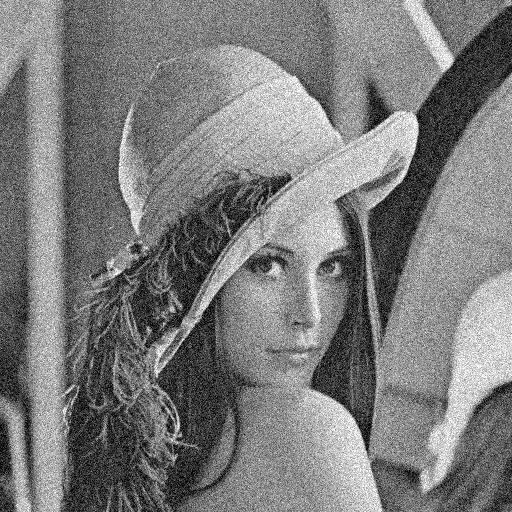
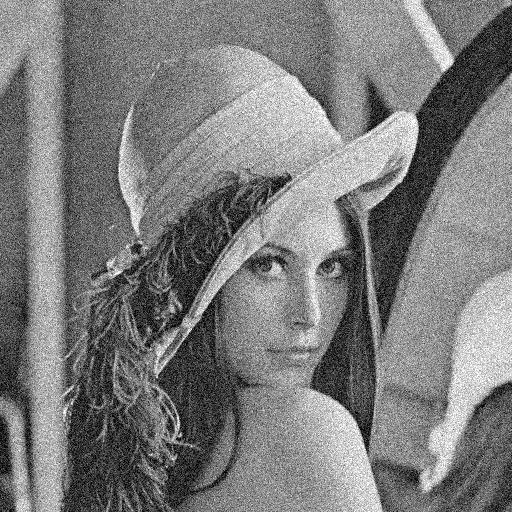
version quasi finale rendu2

diff --git a/ImageDenoiser/src/denoiser/Main.java b/ImageDenoiser/src/denoiser/Main.java
@@ -16,7 +16,7 @@ public class Main {
             BufferedImage original = loadImage("ImageDenoiser/images_sources/lena.jpeg");
 
             // 2. Ajout de bruit
-            double sigma = 35.0;
+            double sigma = 25.0;
             BufferedImage noisy = ImageUtils.noising(original, sigma);
             saveImage(noisy, "ImageDenoiser/images_bruitees/lena_noisy_sigma" + (int) sigma + ".jpeg");
 
@@ -53,7 +53,7 @@ public class Main {
         if (!dir.exists()) dir.mkdirs();
 
         // 8. Écriture du fichier résultats
-        FileWriter fw = new FileWriter(sigmaDir + "resultats.txt");
+        FileWriter fw = new FileWriter(sigmaDir + "resultats_global.txt");
         PrintWriter pw = new PrintWriter(fw);
 
         String[] noms = { "DouxBayes", "DurBayes", "DouxVisu", "DurVisu" };
@@ -105,111 +105,79 @@ public class Main {
     }
     
     public static void localDenoising(int s, double sigma, BufferedImage noisy, BufferedImage original) throws IOException {
-        int W = 64; // Taille des zones locales
-        int pas = 64; // Pas de déplacement : non chevauchantes
+        int W = 64;
+        int pas = 64;
+
         List<ImageZone> zones = ImageUtils.decoupeImage(noisy, W, pas);
-        List<ImageZone> denoisedZonesBayesSoft = new ArrayList<>();
-        List<ImageZone> denoisedZonesVisuSoft = new ArrayList<>();
-        List<ImageZone> denoisedZonesBayesHard = new ArrayList<>();
-        List<ImageZone> denoisedZonesVisuHard = new ArrayList<>();
+
+        // Préparation des listes pour les 4 méthodes
+        List<List<ImageZone>> zonesParMethode = new ArrayList<>();
+        for (int i = 0; i < 4; i++) zonesParMethode.add(new ArrayList<>());
+
+        String[] noms = { "BayesSoft", "BayesHard", "VisuSoft", "VisuHard" };
+        boolean[] softFlags = { true, false, true, false };
+        boolean[] bayesFlags = { true, true, false, false };
 
         for (ImageZone zone : zones) {
             BufferedImage subImage = zone.getImage();
             int offsetX = zone.getPosition()[0];
             int offsetY = zone.getPosition()[1];
 
-         // 3. Extraction des patchs
-            List<Patch> patches = ImageUtils.extractPatches(noisy, s);
-
-            // 4. Conversion en vecteurs
-            List<double[]> vectors = patches.stream()
-                                            .map(Patch::toVector)
-                                            .toList();
-
-            // 5. ACP
+            // Pipeline
+            List<Patch> patches = ImageUtils.extractPatches(subImage, s);
+            List<double[]> vectors = patches.stream().map(Patch::toVector).toList();
             ACPResult acpResult = ACP.computeACP(vectors);
-
-            // 6. Projection
             List<double[]> Vc = ACP.MoyCov(vectors).Vc;
             double[][] contributions = ACP.project(acpResult.base, Vc);
 
-            // 7. Dossier de sortie pour sigma
-            String sigmaDir = "ImageDenoiser/images_reconstruites/sigma" + (int) sigma + "/";
-            File dir = new File(sigmaDir);
-            if (!dir.exists()) dir.mkdirs();
-
-            // 8. Écriture du fichier résultats
-            FileWriter fw = new FileWriter(sigmaDir + "resultats.txt");
-            PrintWriter pw = new PrintWriter(fw);
-
-            String[] noms = { "DouxBayes", "DurBayes", "DouxVisu", "DurVisu" };
-            boolean[] softFlags = { true, false, true, false };
-            boolean[] bayesFlags = { true, true, false, false };
-
             for (int i = 0; i < 4; i++) {
-                String nom = noms[i];
                 boolean isSoft = softFlags[i];
                 boolean isBayes = bayesFlags[i];
 
-                // Calcul lambda
-                double lambda;
-                if (isBayes) {
-                    double sigmaSignal = Thresholding.estimateGlobalSigmaSignal(contributions, sigma);
-                    lambda = Thresholding.seuilBayes(sigma, sigmaSignal);
-                } else {
-                    lambda = Thresholding.seuilVisu(sigma, s * s);
-                }
+                double lambda = isBayes
+                    ? Thresholding.seuilBayes(sigma, Thresholding.estimateGlobalSigmaSignal(contributions, sigma))
+                    : Thresholding.seuilVisu(sigma, s * s);
 
-                // Seuillage
                 double[][] contributionsSeuillees = Thresholding.appliquerSeuillage(contributions, lambda, isSoft);
 
-                // Reconstruction
                 List<double[]> reconstructions = Thresholding.reconstructionsDepuisContributions(
                     contributionsSeuillees, acpResult.base, acpResult.moyenne);
 
-                List<Patch> reconstructedPatches = new java.util.ArrayList<>();
+                List<Patch> reconstructedPatches = new ArrayList<>();
                 for (int j = 0; j < reconstructions.size(); j++) {
                     Patch originalPatch = patches.get(j);
-                    double[] data = reconstructions.get(j);
-                    reconstructedPatches.add(new Patch(data, originalPatch.positionX, originalPatch.positionY));
+                    reconstructedPatches.add(new Patch(reconstructions.get(j), originalPatch.positionX, originalPatch.positionY));
                 }
+
                 BufferedImage zoneDenoised = ImageUtils.reconstructPatches(reconstructedPatches, subImage.getHeight(), subImage.getWidth());
-                // Ajout de la zone débruitée dans la liste
-                switch(i) {
-                case 0:
-                	denoisedZonesBayesSoft.add(new ImageZone(zoneDenoised, offsetX, offsetY));
-                }
-	            case 1:
-	            	denoisedZonesBayesHard.add(new ImageZone(zoneDenoised, offsetX, offsetY));
-	            }
-		        case 2:
-		        	denoisedZonesVisuSoft.add(new ImageZone(zoneDenoised, offsetX, offsetY));
-		        }
-			    case 3:
-			    	denoisedZonesVisuHard.add(new ImageZone(zoneDenoised, offsetX, offsetY));
-			    }
-                }
-                
+
+                zonesParMethode.get(i).add(new ImageZone(zoneDenoised, offsetX, offsetY));
             }
-
-        // Recomposition finale
-        BufferedImage result = ImageUtils.recomposeFromZones(denoisedZones, noisy.getWidth(), noisy.getHeight());
-
-        // Sauvegarde de l'image débruitée finale
-        String outputPath = "ImageDenoiser/images_reconstruites/sigma" + (int) sigma + "/Local" + + ".jpeg";
-        saveImage(result, outputPath);
-
-        // Évaluation
-        double mse = Evaluation.mse(original, result);
-        double psnr = Evaluation.psnr(mse);
-
-        // Enregistrement des résultats
-        try (PrintWriter pw = new PrintWriter(new FileWriter("ImageDenoiser/images_reconstruites/sigma" + (int) sigma + "/resultats_local.txt"))) {
-            pw.printf("Local_DouxBayes : MSE = %.2f, PSNR = %.2f dB%n", mse, psnr);
         }
 
+        // Recomposition, sauvegarde et évaluation
+        String sigmaDir = "ImageDenoiser/images_reconstruites/sigma" + (int) sigma + "/";
+        new File(sigmaDir).mkdirs();
+
+        FileWriter fw = new FileWriter(sigmaDir + "resultats_local.txt");
+        PrintWriter pw = new PrintWriter(fw);
+
+        for (int i = 0; i < 4; i++) {
+            BufferedImage result = ImageUtils.recomposeFromZones(zonesParMethode.get(i), noisy.getWidth(), noisy.getHeight());
+
+            String outPath = sigmaDir + "Local_" + noms[i] + ".jpeg";
+            saveImage(result, outPath);
+
+            double mse = Evaluation.mse(original, result);
+            double psnr = Evaluation.psnr(mse);
+
+            pw.printf("%s : MSE = %.2f, PSNR = %.2f dB%n", noms[i], mse, psnr);
+        }
+
+        pw.close();
         System.out.println("Traitement local terminé pour sigma = " + sigma + ".");
     }
+
 
 
 

diff --git a/ImageDenoiser/src/denoiser/ImageUtils.java b/ImageDenoiser/src/denoiser/ImageUtils.java
@@ -113,13 +113,25 @@ public class ImageUtils {
 
         for (int y = 0; y <= height - W; y += n) {
             for (int x = 0; x <= width - W; x += n) {
-                BufferedImage subImage = X.getSubimage(x, y, W, W);
+                BufferedImage subImage = new BufferedImage(W, W, BufferedImage.TYPE_BYTE_GRAY);
+                WritableRaster subRaster = subImage.getRaster();
+                Raster originalRaster = X.getRaster();
+
+                for (int j = 0; j < W; j++) {
+                    for (int i = 0; i < W; i++) {
+                        int val = originalRaster.getSample(x + i, y + j, 0);
+                        subRaster.setSample(i, j, 0, val);
+                    }
+                }
+
                 zones.add(new ImageZone(subImage, x, y));
             }
         }
 
         return zones;
     }
+
+
     
     public static List<VectorWithPosition> VectorPatchs(List<Patch> patches) {
         List<VectorWithPosition> result = new ArrayList<>();
@@ -132,29 +144,48 @@ public class ImageUtils {
     }
     
     public static BufferedImage recomposeFromZones(List<ImageZone> zones, int fullWidth, int fullHeight) {
-        BufferedImage result = new BufferedImage(fullWidth, fullHeight, BufferedImage.TYPE_BYTE_GRAY);
-        WritableRaster resultRaster = result.getRaster();
+        int[][] sum = new int[fullHeight][fullWidth];
+        int[][] count = new int[fullHeight][fullWidth];
 
         for (ImageZone zone : zones) {
             BufferedImage img = zone.getImage();
-            Raster zoneRaster = img.getRaster();
-            int[] position = zone.getPosition();
-            int offsetX = position[0];
-            int offsetY = position[1];
-            int width = img.getWidth();
-            int height = img.getHeight();
+            Raster raster = img.getRaster();
+            int[] pos = zone.getPosition();
+            int offsetX = pos[0];
+            int offsetY = pos[1];
 
-            for (int y = 0; y < height; y++) {
-                for (int x = 0; x < width; x++) {
-                    int val = zoneRaster.getSample(x, y, 0);
-                    resultRaster.setSample(offsetX + x, offsetY + y, 0, val);
+            int w = img.getWidth();
+            int h = img.getHeight();
+
+            for (int y = 0; y < h; y++) {
+                for (int x = 0; x < w; x++) {
+                    int val = raster.getSample(x, y, 0);
+                    int globalX = offsetX + x;
+                    int globalY = offsetY + y;
+
+                    if (globalX < fullWidth && globalY < fullHeight) {
+                        sum[globalY][globalX] += val;
+                        count[globalY][globalX]++;
+                    }
                 }
+            }
+        }
+
+        BufferedImage result = new BufferedImage(fullWidth, fullHeight, BufferedImage.TYPE_BYTE_GRAY);
+        WritableRaster resultRaster = result.getRaster();
+
+        for (int y = 0; y < fullHeight; y++) {
+            for (int x = 0; x < fullWidth; x++) {
+                int val = (count[y][x] == 0) ? 0 : (sum[y][x] / count[y][x]);
+                resultRaster.setSample(x, y, 0, val);
             }
         }
 
         result.setData(resultRaster);
         return result;
     }
+
+
 
 
 
